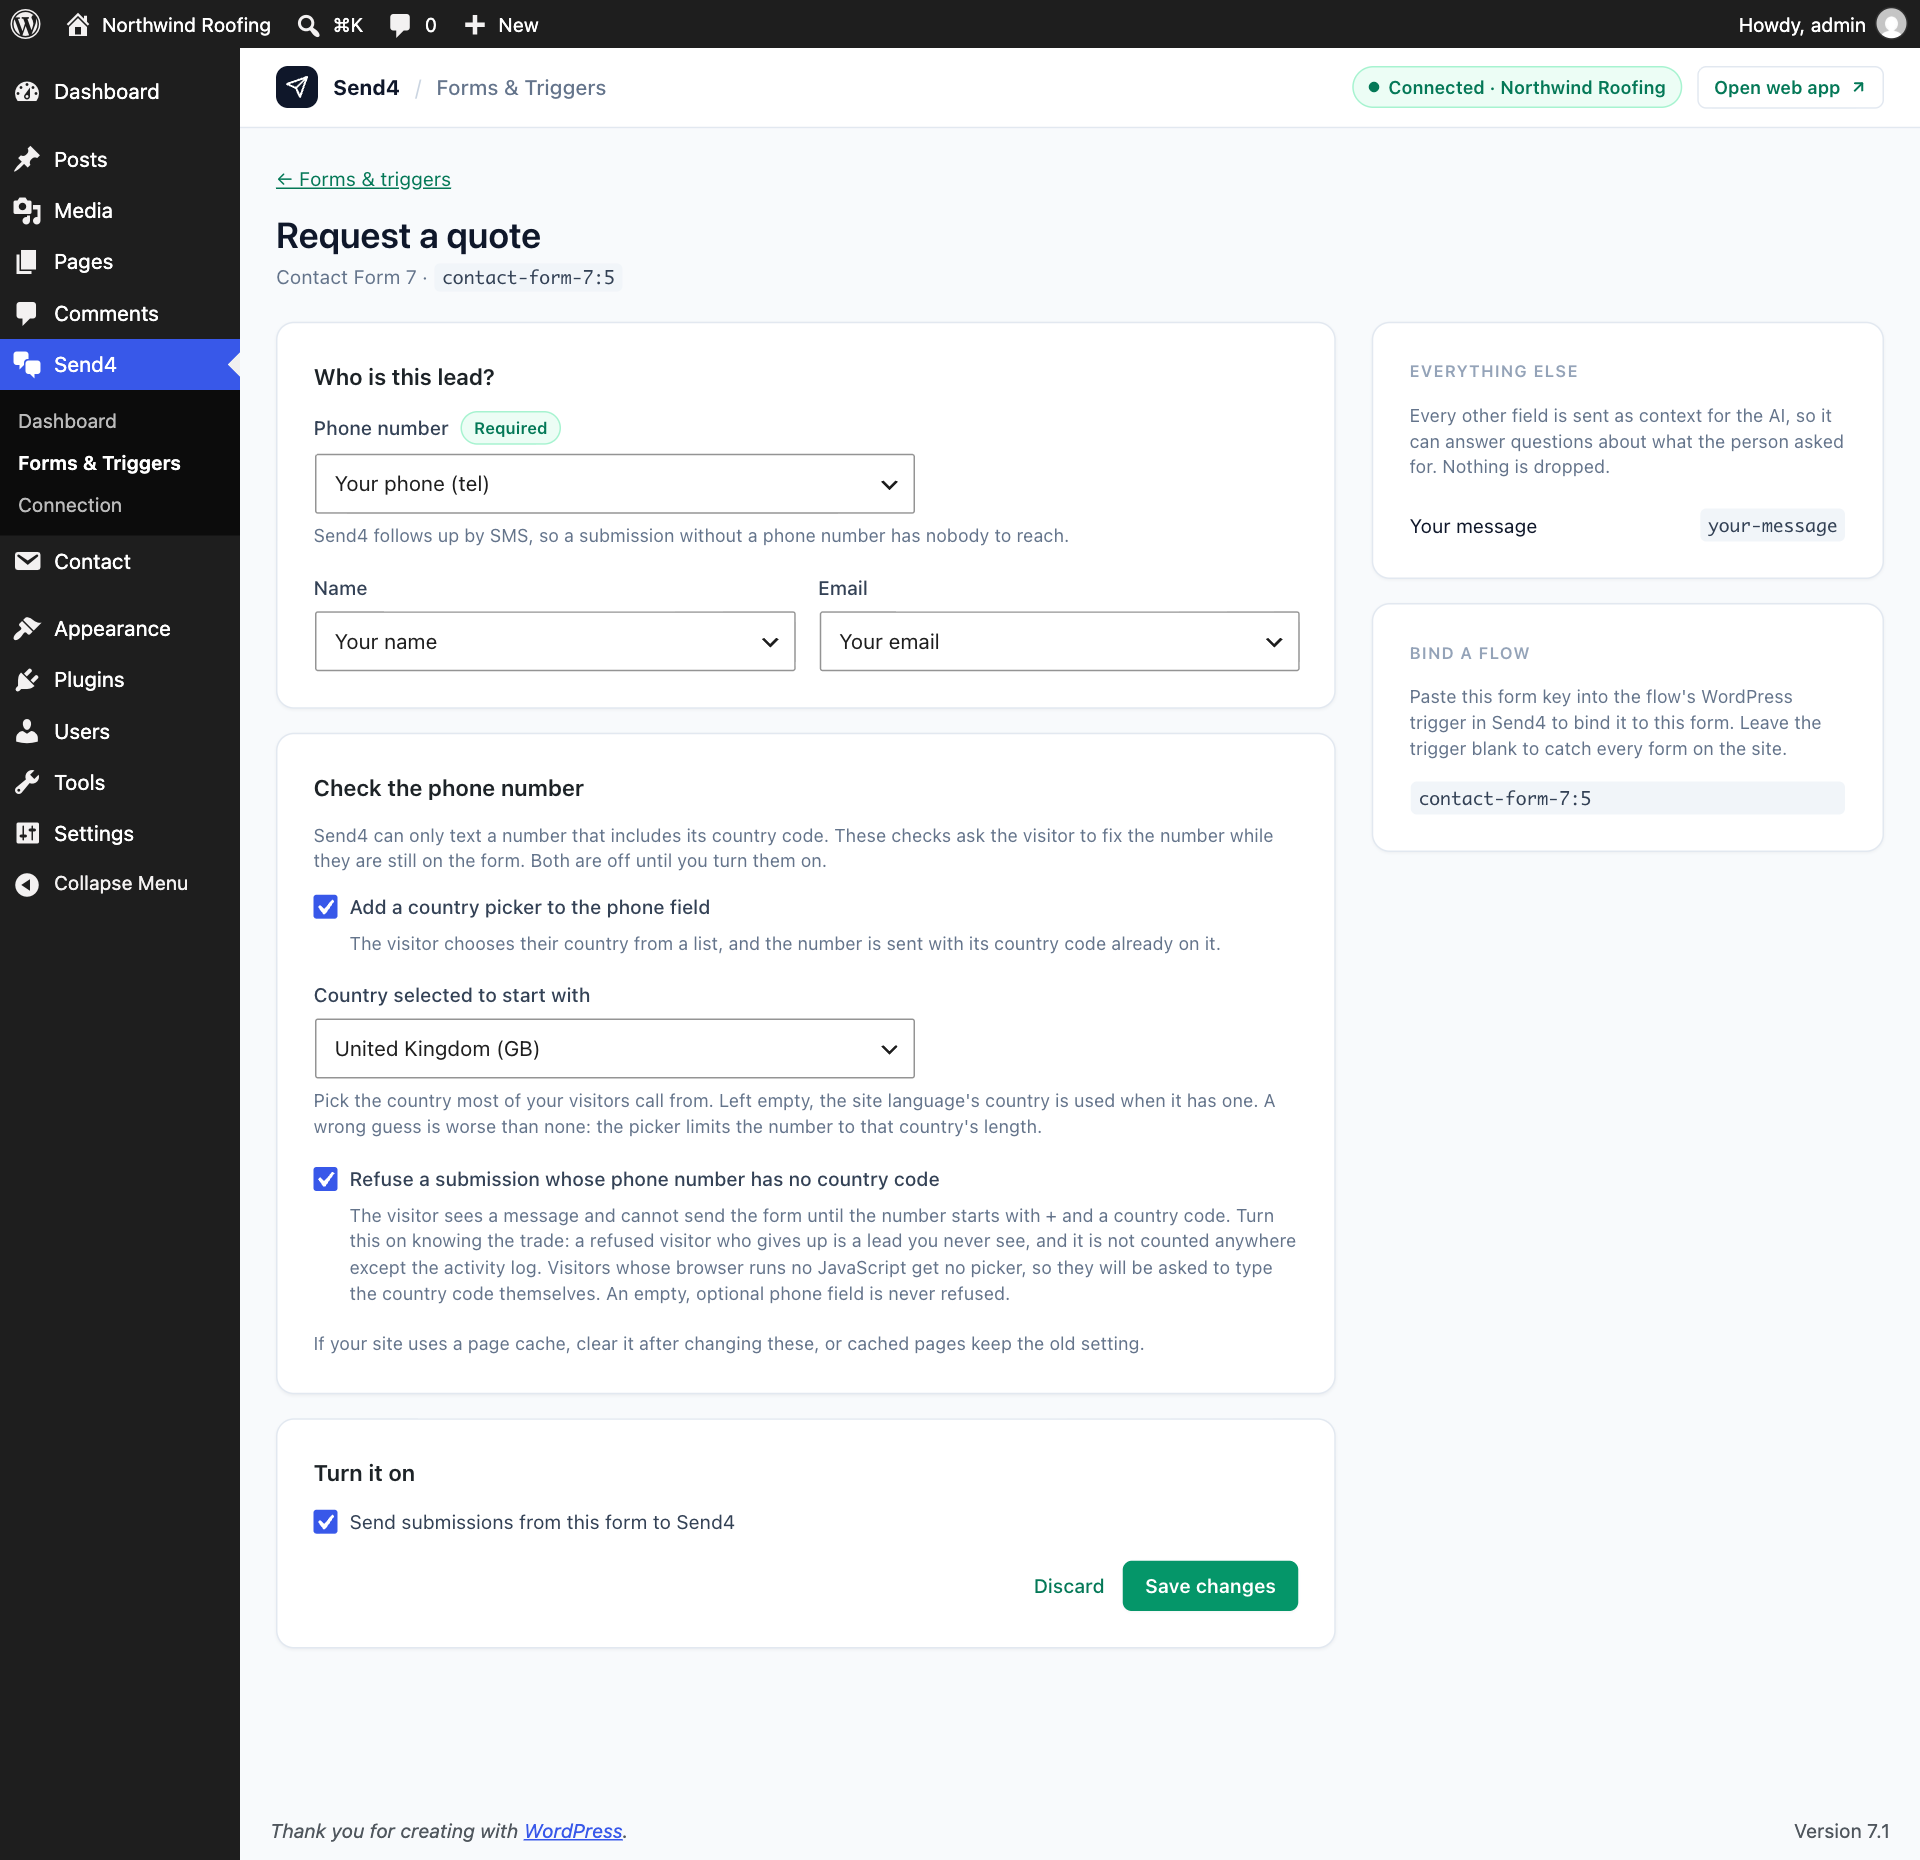
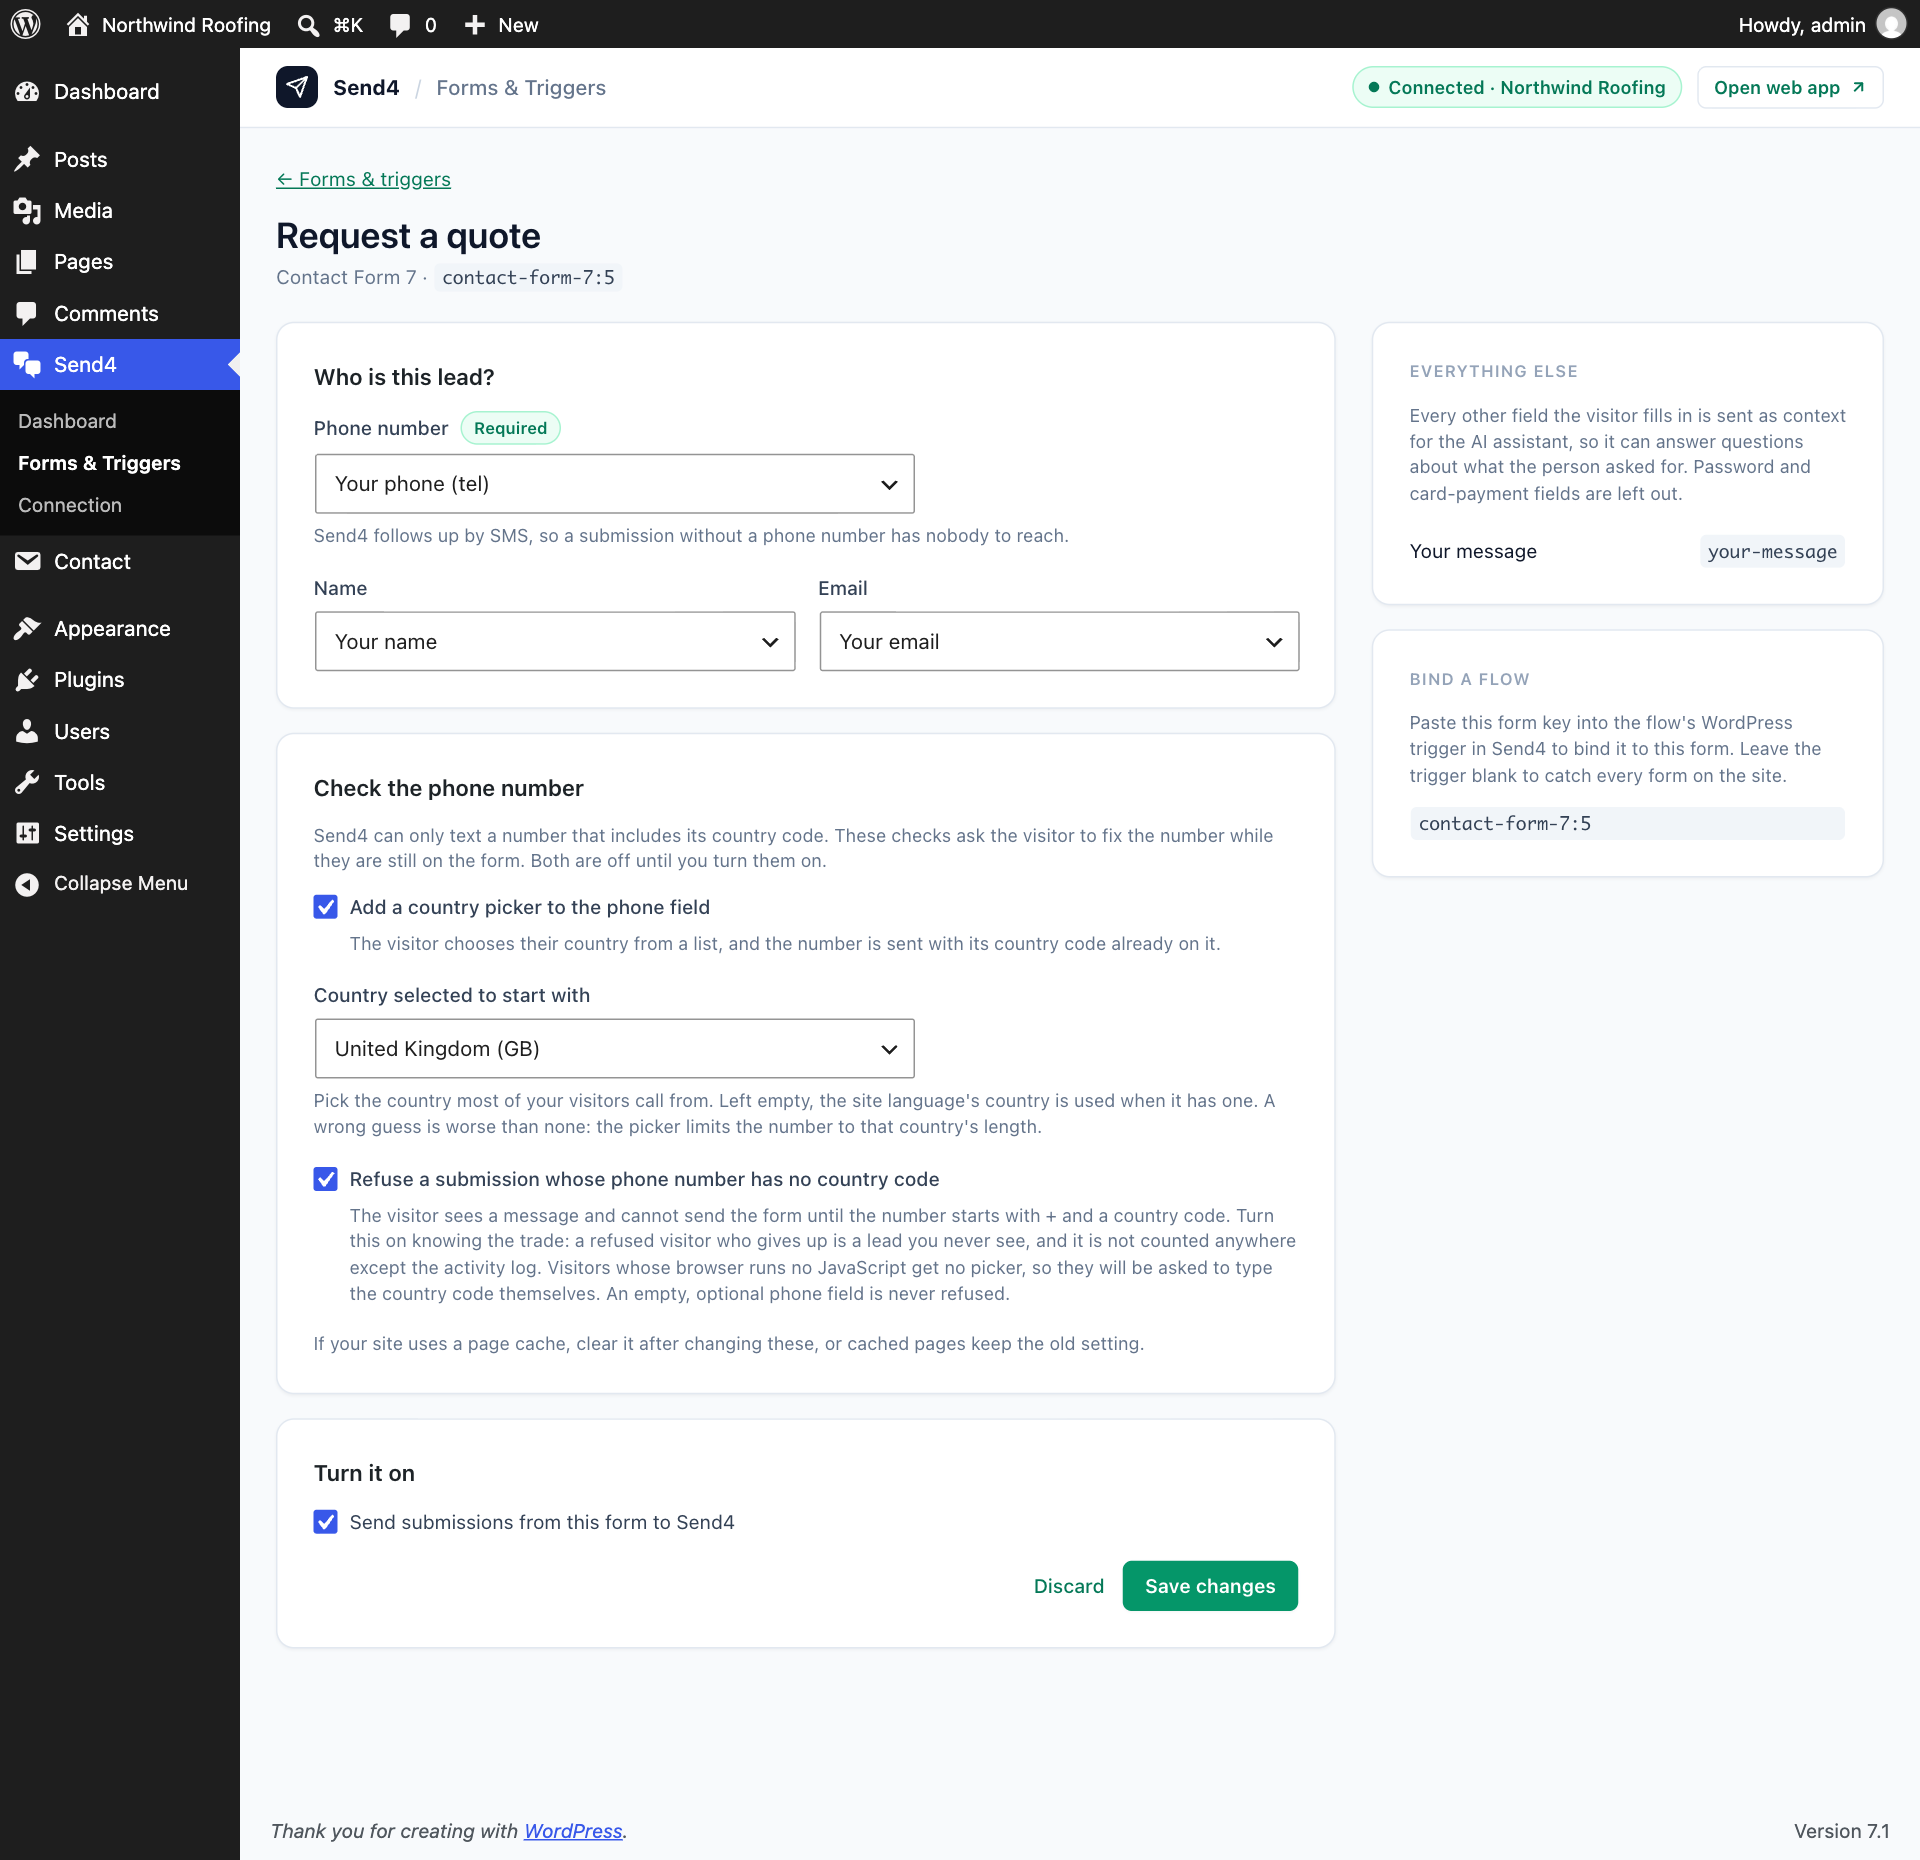
Say only what the plugin does
Codex review, checked against the code. The listing promised more than the
plugin delivers in these places:

- "Every form lead gets a text": only when a flow in Send4 listens for the
  form. It now says a flow in Send4 texts each new form lead.
- "Every field you do not map is passed along" and "Nothing is dropped":
  empty fields are skipped, and the adapters leave out password and
  card-payment fields on purpose. Both the listing and the mapping screen
  now say so, and the mapping screen says "the AI assistant".
- "No lost leads" is now "Outages covered", with the same sentence about
  the retry queue under it.
- The dashboard does not show what is waiting per form, and wp send4 status
  does not print everything Site Health does.
- The three-second limit is per request, and a submission can take more
  than one.
- Retries reuse the submission identifier, but Send4 only recognises it for
  24 hours and retries run for longer: "cannot be delivered twice" is gone.
- A number the country picker stops in the browser never reaches the site,
  so it is not in the activity log; and the picker attaches to phone and
  text inputs, not to "whatever kind of field".
- Someone who texts STOP gets one last confirmation, so "is not texted
  again" is now "is opted out".

Left as they are: "A person can take over at any point", which is the
website's own sentence; "Nothing is lost" on the dashboard, which describes
[…]

Changed region(s): [[0.75, 0.2183, 0.9688, 0.3118], [0.7188, 0.343, 0.9375, 0.4677], [0.875, 0.2806, 0.9688, 0.3118]]

diff --git a/admin/views/mapping.php b/admin/views/mapping.php
@@ -186,7 +186,7 @@ $send4_bar_account = 'connected' === $send4_bar_state && is_array( $handshake ) 
 					<div class="send4-card send4-card--pad">
 						<h2 class="send4-eyebrow"><?php esc_html_e( 'Everything else', 'send4' ); ?></h2>
 						<p class="send4-xs send4-muted">
-							<?php esc_html_e( 'Every other field is sent as context for the AI, so it can answer questions about what the person asked for. Nothing is dropped.', 'send4' ); ?>
+							<?php esc_html_e( 'Every other field the visitor fills in is sent as context for the AI assistant, so it can answer questions about what the person asked for. Password and card-payment fields are left out.', 'send4' ); ?>
 						</p>
 						<ul class="send4-passthrough">
 							<?php foreach ( $send4_fields as $send4_field ) : ?>
